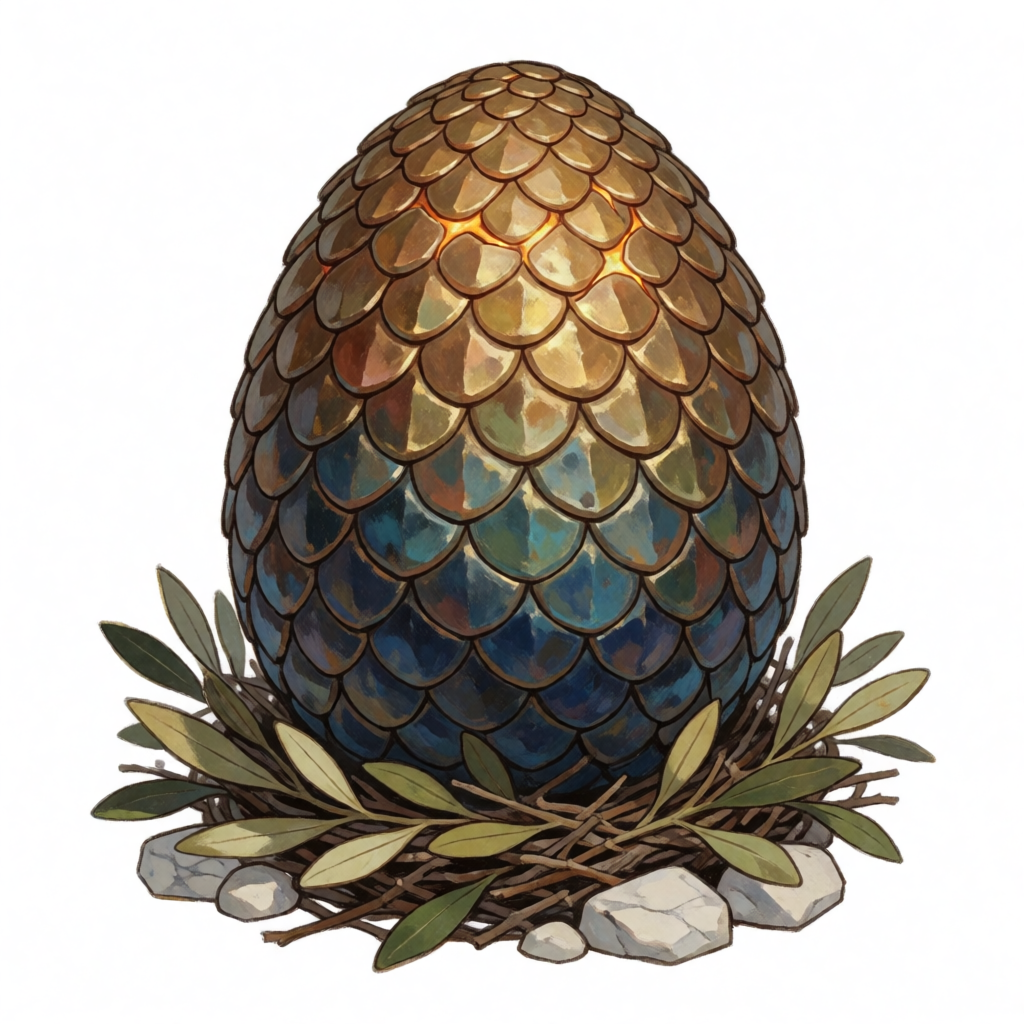
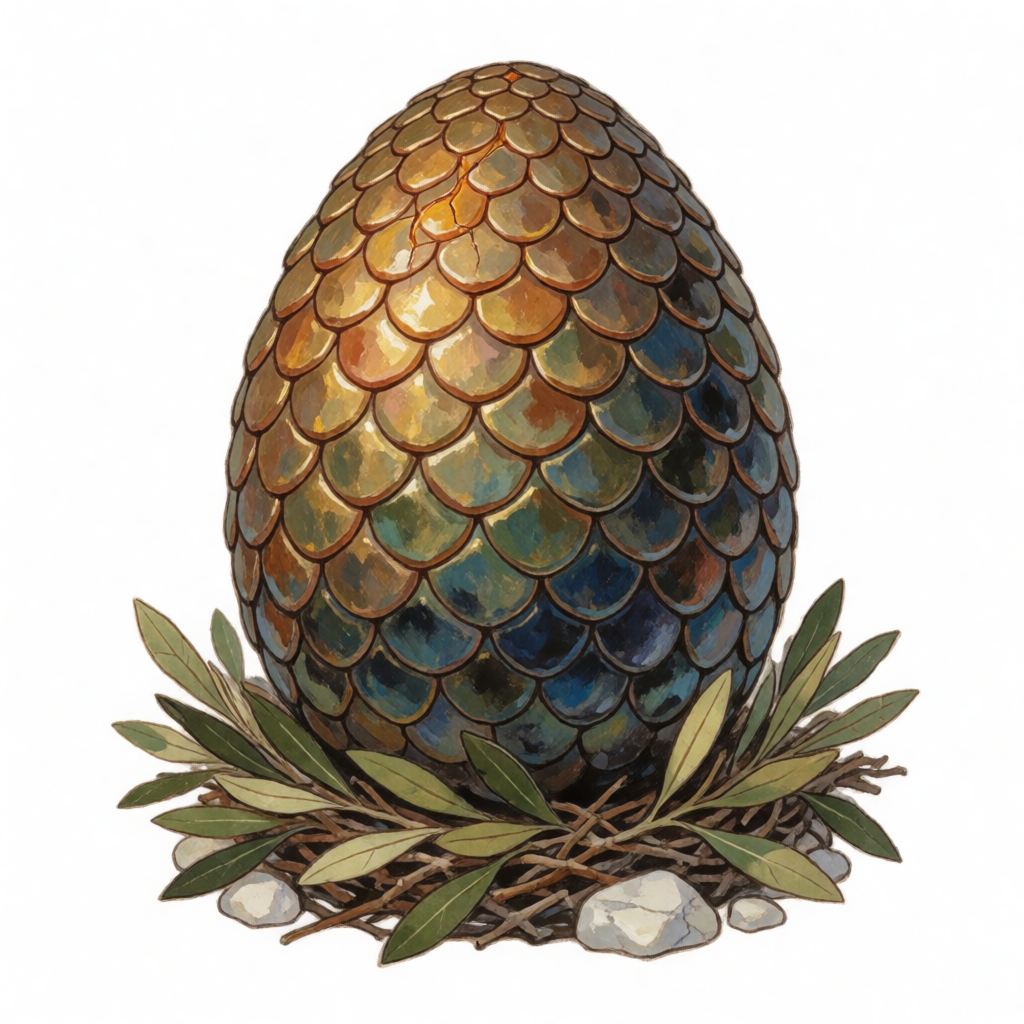
Art: cleaner lines for the dragon stages, Echo and the Hydre
Regenerated with the new discorde-inked-clean style (one clean medium-weight
outline, painterly gouache shading kept). Seeds: egg 201, hatchling 202,
young 283, adult 204, Echo 392, Hydre 331. Cut out with the unchanged
BiRefNet + alpha matting method (0% white fringe), webified with the same
names. Before/after sheet in docs/art/cutout-comparison/04; prompt tips and
seeds in docs/art/style-guide.md.

diff --git a/docs/art/style-guide.md b/docs/art/style-guide.md
@@ -39,6 +39,14 @@ reads instantly. Gold accents stay small except on the dragon and the emblems.
   Écho's copies, Protée's water) keep their concept but as solid inked shapes, "like a
   carved marble relief". This exists because soft strands and glow are what background
   removal gets wrong.
+- `.claude/skills/krea2/styles/discorde-inked-clean.txt`: the cleaner-line variant of
+  `discorde-inked`, used for the dragon stages, Écho and L'Hydre (2026-09-24 regeneration).
+  Keeps the gouache/acrylic shading ("warm and cool colour variation inside every shape")
+  but asks for *one clean medium-weight* outline of even thickness, finer interior lines,
+  and negatives `(sketchy lines:-2) (rough brush strokes:-2) (scratchy hatching:-2)
+  (thick heavy outline:-1.5) (shadow:-2)`. A first try with a heavy comic outline cut out
+  perfectly but looked too heavy; `(thick heavy outline:-1.5)` is what lightens it. Use it
+  for new cut-out assets; the older ones still use `discorde-inked`.
 - `.claude/skills/krea2/styles/discorde-emblem.txt`: round bronze/gold medallion UI emblems
   (add "a clean dark ink outline around the medallion's outer rim" to the prompt).
 
@@ -66,7 +74,23 @@ spiky golden crown, gold arm bracelets, holding a shining golden apple.*
 Attitude: theatrical diva, smug, sore loser. Never sweet, never scary. Always add
 `(sweet friendly kind smile:-3)`.
 
-**The dragon companion** (seeds 201–204): *a dragon of the Discorde species, burnished
+**Cleaner-line pass (2026-09-24, `discorde-inked-clean`)**: dragon egg 201, hatchling 202,
+adult 204, young 283, Écho 392, Hydre 331 (before/after in
+`docs/art/cutout-comparison/04-lines-dragons-echo-hydre.png`). Prompt tips from it:
+- "dramatic warm/cool rim light from the side" paints a coloured band *outside* the ink
+  line, which reads as a sticker rim once cut out. Drop it for cut-outs and write "whole
+  creature visible with room around it, soft even lighting"; for the Hydre also add
+  `(orange rim light:-2) (glow:-2)`. Do not add `(sticker border:-3) (halo around the
+  outline:-2)` on top: it made the edge blotchier, not cleaner.
+- Pose words drift with this style: the young dragon sat down until the prompt said
+  "standing proudly upright on all four legs ... legs straight" plus `(sitting:-2)`.
+- Écho lost her feet or got a knee-length dress until the prompt said "the whole figure
+  visible from the top of the head down to the bare feet with room above and below" and
+  "ankle-length chiton".
+- The Hydre prompt (five heads + a stump sprouting two small heads) now gives six equal
+  heads and no visible stump; accepted, as the regrowth reads as part of the myth.
+
+**The dragon companion** (seeds 201–204, young 283 since the cleaner-line pass): *a dragon of the Discorde species, burnished
 bronze-gold scales, amber eyes, a pale cream belly, curved ivory horns, leathery wings with
 copper-coloured membranes, a row of ivory spines down its back.* Stages: egg (bronze-gold
 scaled shell, amber glow through cracks, nest of olive branches) → hatchling (horn nubs,
@@ -74,7 +98,7 @@ stubby wings, sitting in the shell) → young (large-dog size, half-spread wings
 → adult (long horns, huge wings spread, noble stance). The player recolours it later: keep
 the hue shift in CSS/canvas, not in new generations.
 
-**Lieutenants** (seeds: Hydre 321, Écho 312, Chimère 333, Protée 304, Sirènes 305, Léthé 316):
+**Lieutenants** (seeds: Hydre 331, Écho 392, Chimère 333, Protée 304, Sirènes 305, Léthé 316):
 - L'Hydre: five-headed serpent, olive-green scales fading to Aegean blue, cream belly, one
   cut stump sprouting two small heads. Each head has a different expression. Say "all five
   heads are snake heads" and add `(human face:-3)`, or one head turns human.
